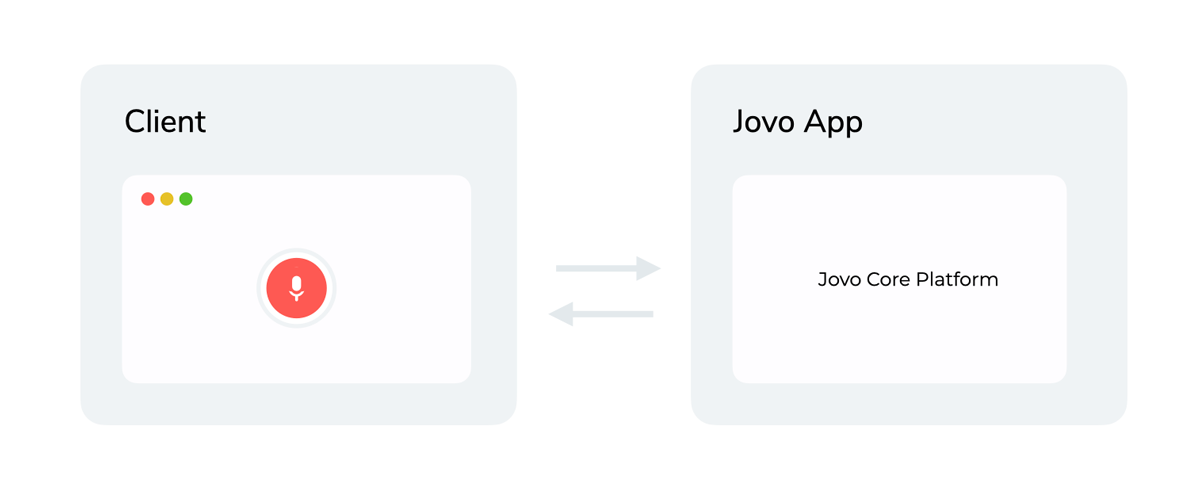
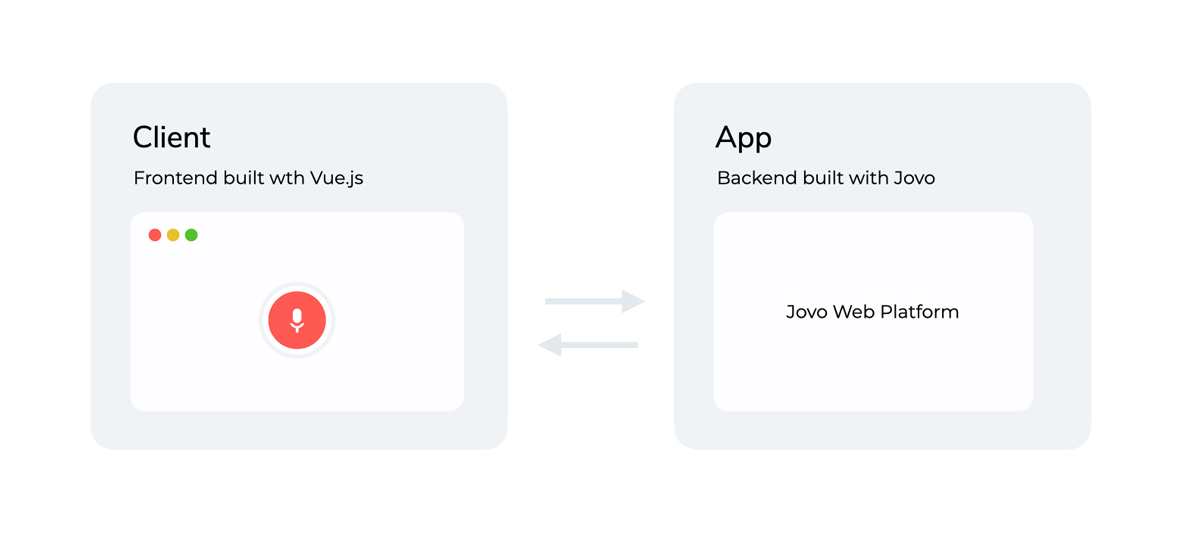
:memo: Update docs

diff --git a/README.md b/README.md
@@ -1,30 +1,73 @@
 # Jovo Web Starter: Embedded Chat
 
-Fully customizable open source embedded chat widget for Jovo chatbots.
+Fully customizable open source chat interface that can be added to any web app.
+
+Built with the [Jovo Framework](https://github.com/jovotech/jovo-framework), [Vue.js](https://github.com/vuejs/vue), and [Tailwind CSS](https://github.com/tailwindlabs/tailwindcss).
+
+![Jovo Embedded Chat](./img/starter-web-embeddedchat.gif)
+
+> Find the demo here: https://www.jovo.tech/demos/starter-web-embeddedchat/
+
+- [Getting Started](#getting-started)
+- [How it works](#how-it-works)
+- [Customization](#customization)
+  - [Client](#client)
+  - [App](#app)
+- [About Jovo](#about-jovo)
+
+## Getting Started
+
+1.  **Download starter**
+
+    Use the Jovo CLI to create a new project based on this starter:
+
+    ```sh
+    # Install latest version of the Jovo CLI
+    $ npm i -g jovo-cli
+
+    # This will download the template and install the dependencies
+    $ jovo new my-embeddedchat --template starter-web-embeddedchat
+
+    $ cd my-embeddedchat
+    ```
+    Alternatively, you can clone this repository and run `npm install`.
+
+
+2. **Start client (Vue.js)**
+   ```sh
+    $ cd client
+
+    # Start Vue frontend
+    $ npm run serve
+    ```
+3. **Start app (Jovo)**
+    In a new tab:
+
+    ```sh
+    $ cd app
+
+    # Start Jovo development server
+    $ jovo run
+    ```
+    The first time, `jovo run` will compile the TypeScript code. After making changes, make sure to compile with `npm run tsc` and then start the Jovo development server again.
+
+4. **Open the starter in your browser at `http://localhost:8080`.**
+
+
+## How it works
+
+![Jovo Web Client to App](img/jovo-web-client-to-app.png)
 
 This repository contains:
 * `app`: Backend logic built with the [Jovo Framework](https://github.com/jovotech/jovo-framework) using its [Web Platform integration](https://github.com/jovotech/jovo-framework/tree/master/jovo-platforms/jovo-platform-web).
 * `client`: Frontend built with [Vue.js](https://vuejs.org/) and [Tailwind CSS](https://tailwindcss.com/), communicating with the backend using the [Jovo Web Client for Vue.js](https://github.com/jovotech/jovo-framework/tree/master/jovo-clients/jovo-client-web-vue).
 
-![Jovo Web Client to App](img/jovo-web-client-to-app.png)
-
-> Note: For demo purposes and the ease of getting started quickly, the template uses the [Web Speech API](https://wicg.github.io/speech-api/) as an ASR, which only works on Google Chrome. To use the Web integration on other browsers, you can integrate one of our integrations of several [cloud ASRs](https://www.jovo.tech/marketplace/tag/asr).
-
-## Getting started
-
-1. Run `npm install`. This will install the dependencies in both `app` and `client`
-
-2. Go into the `client` directory and run `npm run serve` to start the frontend
-
-3. Go into the `app` directory and run `jovo run` to start the backend
-
-4. Open the starter in your browser `localhost:8080`
 
 ## Customization
 
-> For a more detailed explanation and walk-through check out our in-depth [tutorial](TODO: link to tutorial)
+The starter was built for you to have a working example as well as an entry point to get started with the Jovo Web integration.
 
-The starter was built for you to have a working example as well as an entry point to get started with the Jovo Web integration immediately. Because of that, we've tried to keep the starters as small as possible. The following documentation will help you understand how the starter is structured and which components take care of which tasks.
+The following documentation will help you understand how the starter is structured and which components take care of which tasks.
 
 ### Client
 
@@ -32,21 +75,30 @@ The client is a Vue.js project that consists of a single component "EmbeddedChat
 
 #### Component: EmbeddedChat
 
-The EmbeddedChat component implements a fully functioning chat body where the user can type in their request and receive a response from the Jovo app. handles the registration for multiple event listeners, namely `ClientEvent.Request`, `ClientEvent.Response`, and `ClientEvent.Action`.
+The EmbeddedChat component implements a fully functioning chat body where the user can type in their request and receive a response from the Jovo app. It handles the registration for multiple event listeners, namely `ClientEvent.Request`, `ClientEvent.Response`, and `ClientEvent.Action`.
 
-TODO: add links to docs and more info
 * `ClientEvent.Request`: triggered before the request is sent out to the Jovo app. In this case, it is used to display the user's input in the chat body.
 * `ClientEvent.Response`: triggered when the client receives the Jovo app's response. In this case, it is used to display the app's response in the chat body.
 * `ClientEvent.Action`: triggered when the app's response contains an action. In our case, we expect quick replies that are displayed as buttons on top of text input. It also listens for a custom action that opens a link to a new tab.
 
 ### App
 
-The Jovo app the new [Jovo Web Platform integration](TODO: link) as well as [NLP.js](https://www.jovo.tech/marketplace/jovo-nlu-nlpjs) as its NLU. It implements a simple interaction where the user can be redirected to the Jovo Framework's documentation.
+The Jovo app the new [Jovo Web Platform integration]([TODO: link](http://jovo.tech/marketplace/jovo-platform-web)) as well as [NLP.js](https://www.jovo.tech/marketplace/jovo-nlu-nlpjs) as its NLU. It implements a simple interaction where the user can be redirected to the Jovo Framework's documentation.
 
 #### Language Model
 
-The language model consists of two simple intents, `HelloWorldIntent` and `YesIntent`, used to implement the sample interaction.
+The language model consists of two intents, `HelloWorldIntent` and `YesIntent`, used to implement the sample interaction.
 
 #### app.ts
 
-The `app.ts` file contains the initialization of the app and its plugins as well as the basic logic for the sample interaction. It makes use of the Web integrations [`Custom Actions`](TODO: link to docs) to send a `redirect` action used to open a link in a new tab.
+The `app.ts` file contains the initialization of the app and its plugins as well as the basic logic for the sample interaction. It makes use of the Web integrations `Custom Actions` to send a `redirect` action used to open a link in a new tab.
+
+## About Jovo
+
+Jovo is the most popular development framework for voice, including platforms like Alexa, Google Assistant, and the web.
+
+-   [Jovo Website](https://jovo.tech/)
+-   [Documentation](https://jovo.tech/docs/)
+-   [Marketplace](https://www.jovo.tech/marketplace/)
+-   [Twitter](https://twitter.com/jovotech/)
+-   [Forum](https://community.jovo.tech/)
